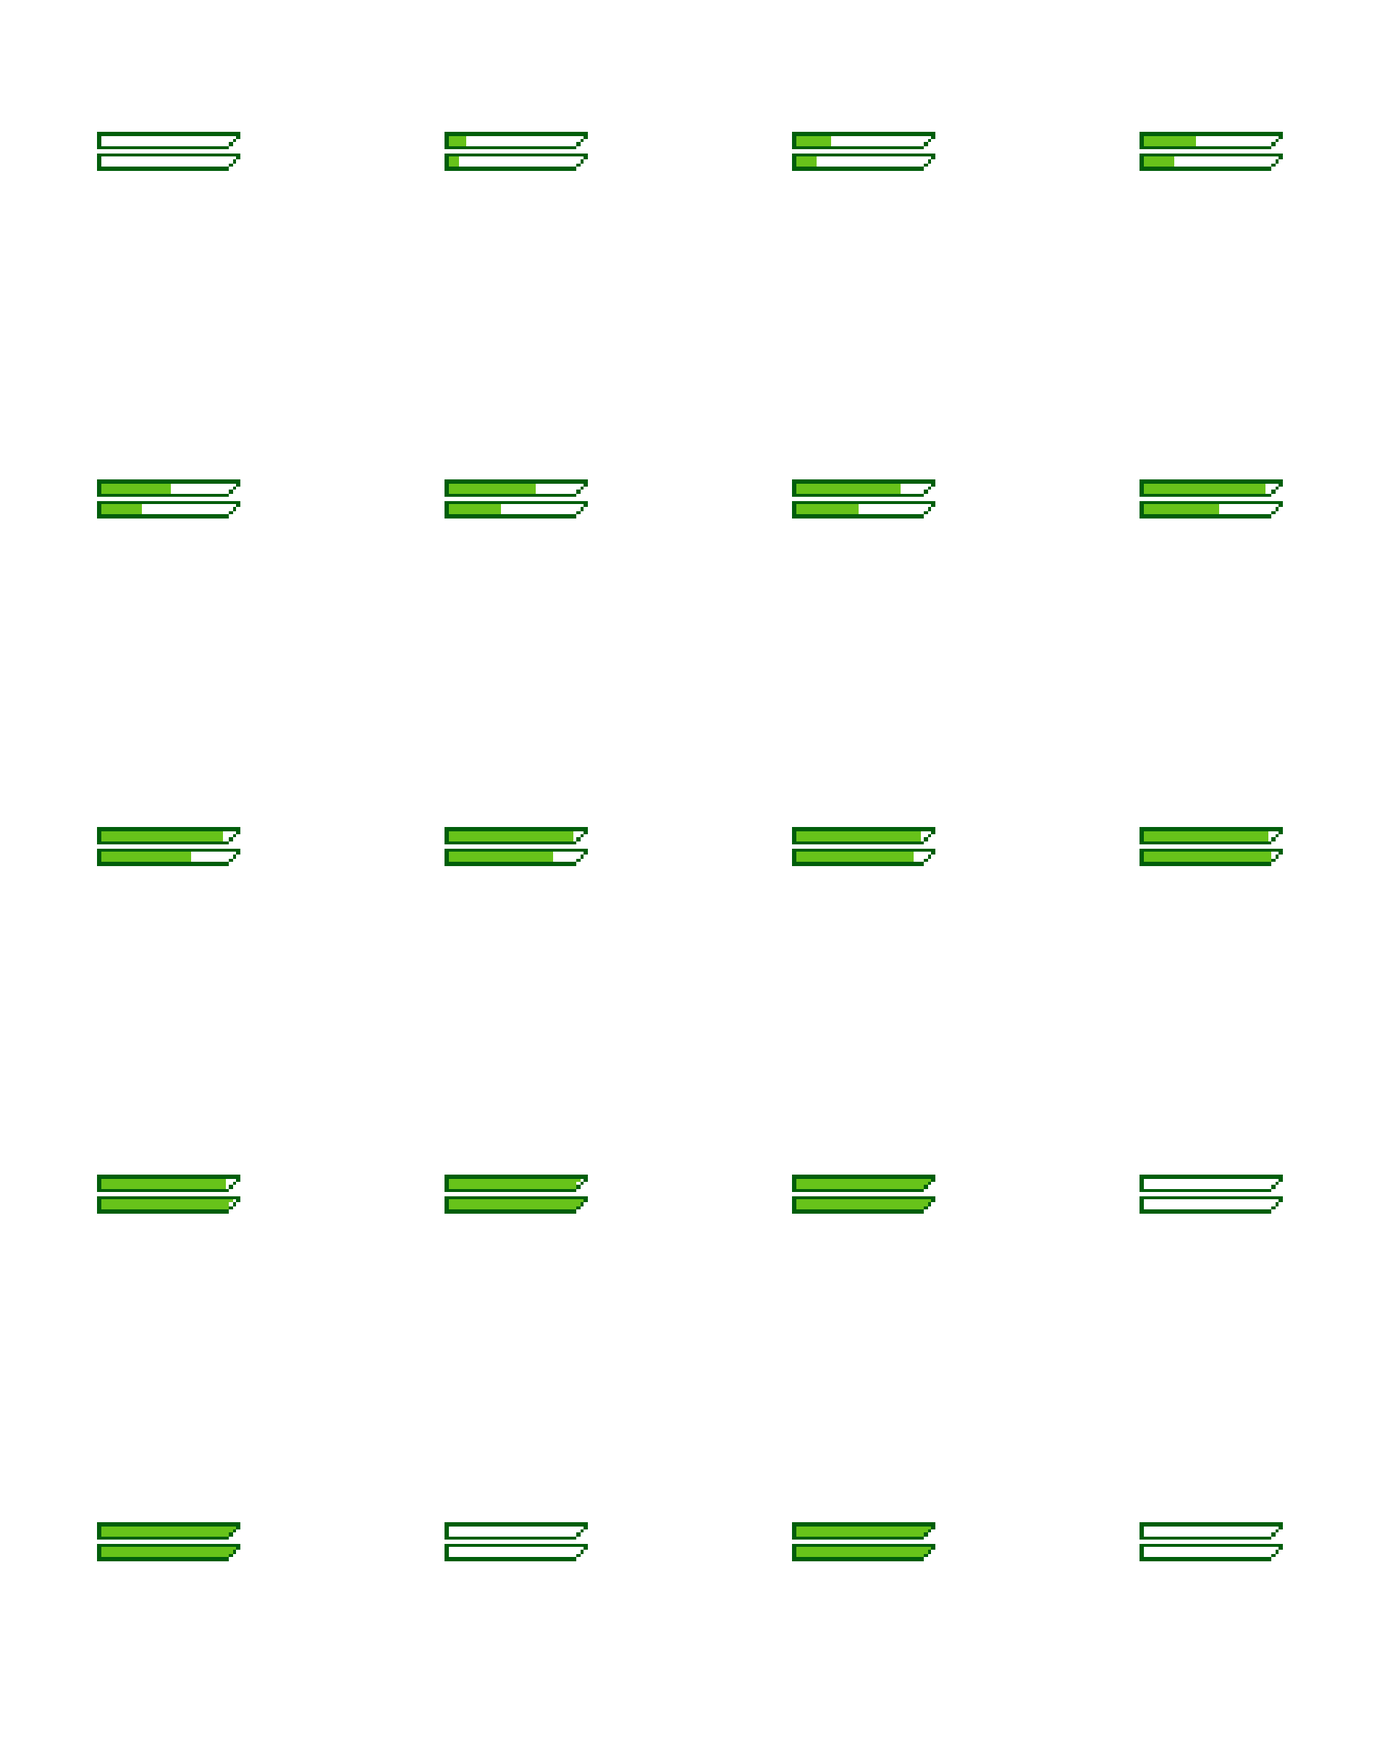
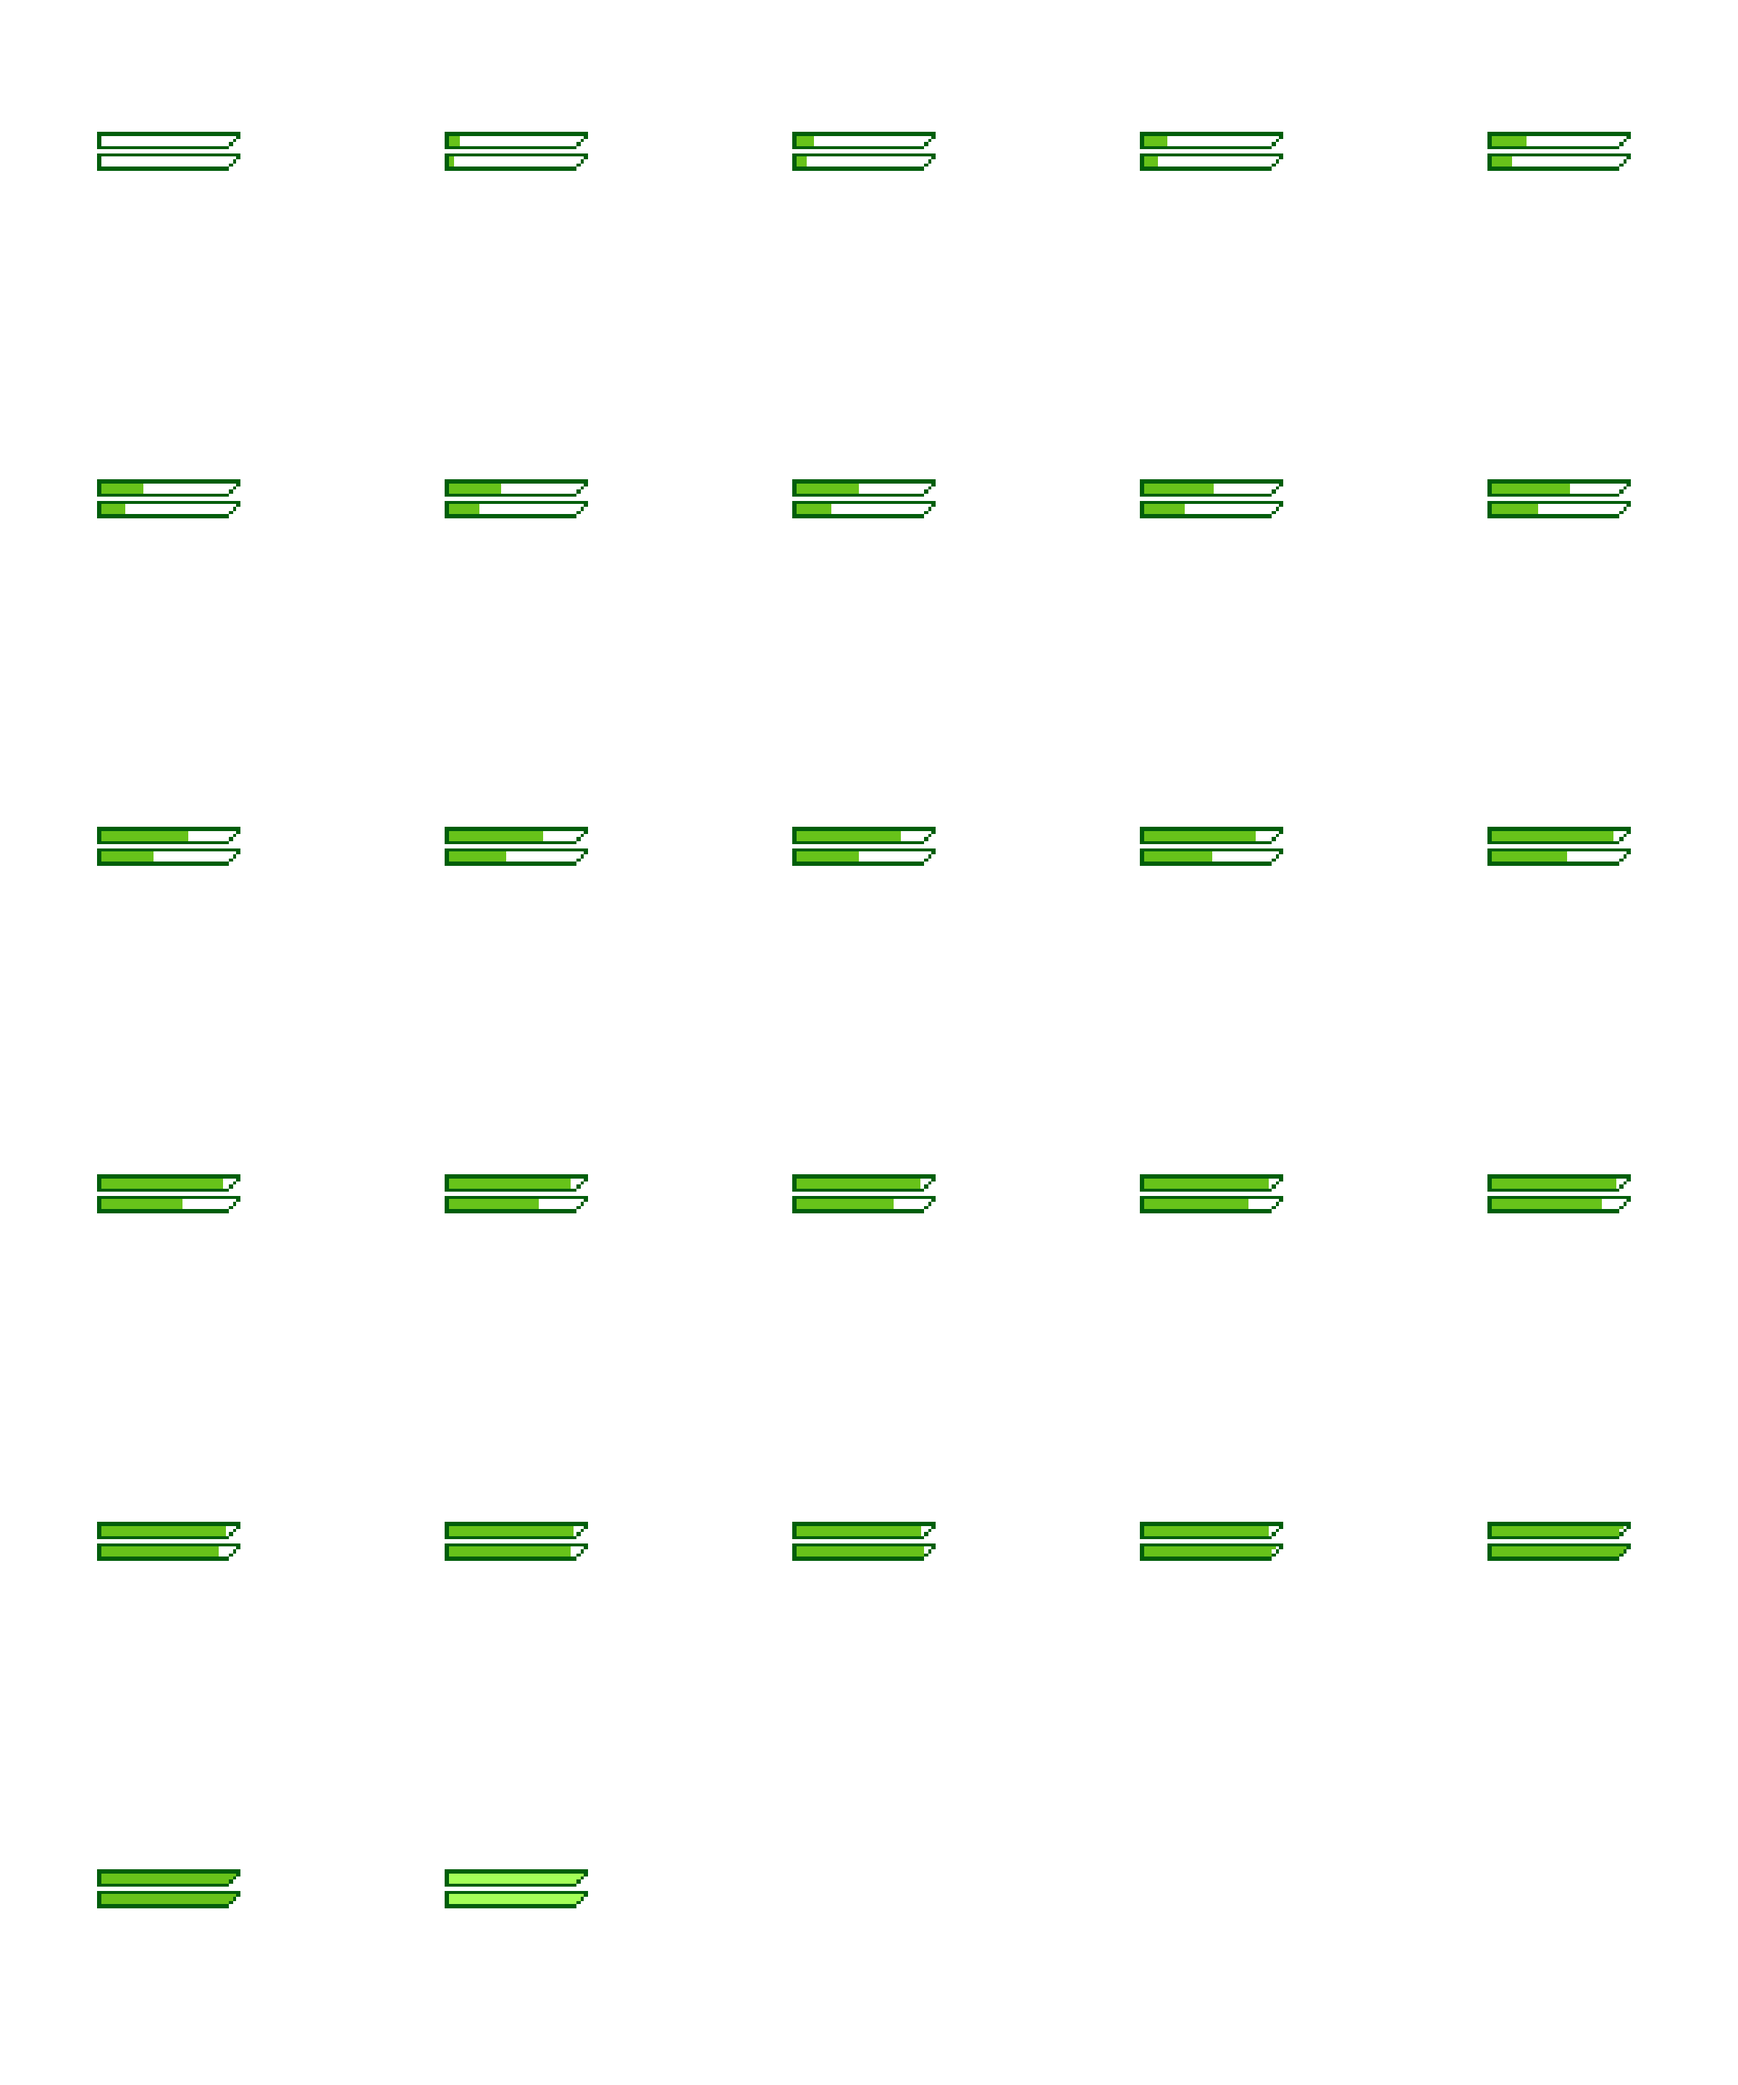
+ anims con menos frames

diff --git a/ProyectosSDL/HolaSDL/Resources.cpp b/ProyectosSDL/HolaSDL/Resources.cpp
@@ -14,7 +14,7 @@ std::vector<std::string> Resources::imageFiles_ { "..//images/AlenaSpriteSheet.p
 	"..//images/mesillapasillo.png","..//images/relojpasillo.png", "..//images/puertaCasaAlena.png", "..//images/flechaTransicion.png",
 	"..//images/flechaTransicionDer.png", "..//images/flechaTransicionIzq.png", "..//images/llavePisoPuzzle.png", "..//images/casillaPuzzleV.png", 
 	"..//images/botonPuzzle.png", "..//images/LuzApagada.png", "..//images/LuzEncendida.png", "..//images/Barras.png", "..//images/BarraCarga.png", "..//images/ondas.png",
-	"..//images/LucesHud.png", "..//images/TextoPixel.png"  };
+	"..//images/LucesHud.png", "..//images/TextoPixel.png", "..//images/BarridoBotella.png"  };
 
 #include <iostream>
 

diff --git a/ProyectosSDL/HolaSDL/LightsOut.h b/ProyectosSDL/HolaSDL/LightsOut.h
@@ -17,7 +17,7 @@ private:
 	bool faded = false;
 	const int numCas = 3;
 	const double tamCas = 150;
-	const Uint8 alphaMin = 25;
+	const Uint8 alphaMin = 40;
 	vector<vector<CasillaLight*>> lights;
 	const double espaciado = 120.5 - 20*(numCas - 1);
 	const int posX = 320 - 5 * (numCas - 1);

diff --git a/ProyectosSDL/HolaSDL/Resources.h b/ProyectosSDL/HolaSDL/Resources.h
@@ -60,7 +60,8 @@ public:
 		Carga,
 		Onda,
 		HudLuces,
-		TextoPixel
+		TextoPixel,
+		BotellaAnimada
 	};
 private:
 	static std::vector<std::string> imageFiles_; // initialized in .cpp
